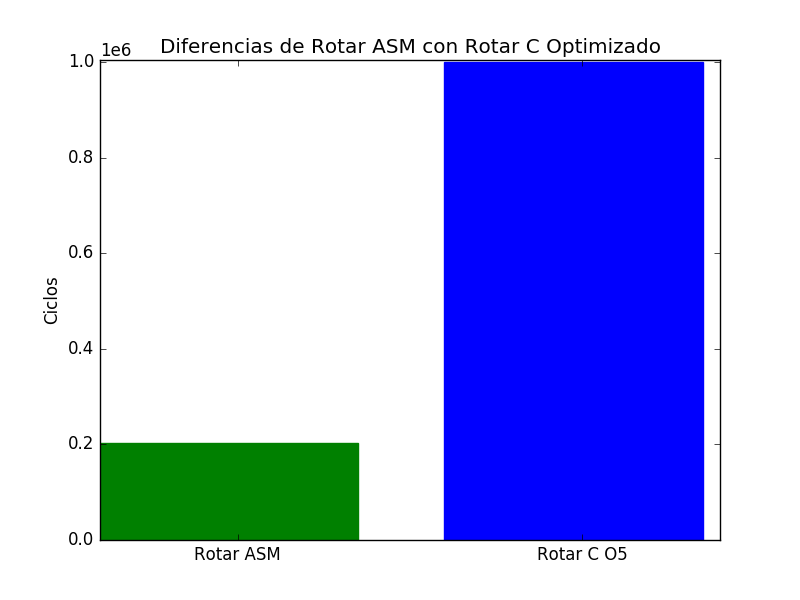
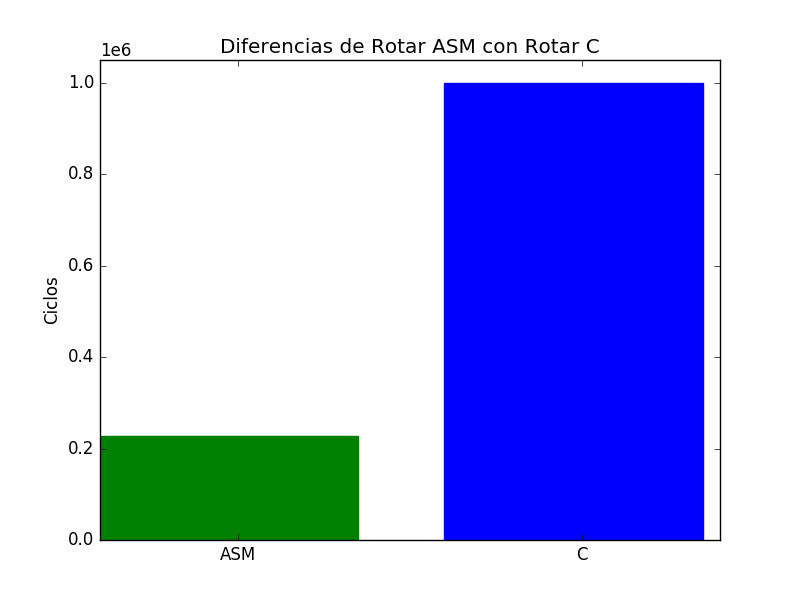
suban experimentos a la carpeta experimentos

diff --git a/Experimentos/ROTAR/ASMvsC.py b/Experimentos/ROTAR/ASMvsC.py
@@ -1,0 +1,64 @@
+import csv
+
+data_csv = "rotar.csv"
+
+ts = [ [] for i in range(128)]
+
+with open(data_csv) as csvfile:
+  reader = csv.DictReader(csvfile)
+  for row in reader:
+    rot = int(row['rotar'])
+    
+    ts[100].append(rot)
+
+data2_csv = "rotarC.csv"
+
+ts2 = [ [] for i in range(128)]
+
+with open(data2_csv) as csvfile:
+  reader = csv.DictReader(csvfile)
+  for row in reader:
+    rot1 = int(row['rotar'])
+    
+    ts2[30].append(rot1)
+
+
+
+import matplotlib.pyplot as plt
+import numpy as np
+
+
+rotar = 1000000
+for i in range(128):
+	for t in ts[i]:
+		rotar = min(rotar, t)
+
+rotar2 = 1000000
+for i in range(128):
+	for t in ts2[i]:
+		rotar2 = min(rotar2, t)
+
+
+y = []
+y.append(rotar)
+y.append(rotar2)
+
+
+ind = np.arange(2) 
+width = .75     
+
+fig, ax = plt.subplots()
+rects1 = ax.bar(ind, y, width)
+
+ax.set_ylabel('Ciclos')
+ax.set_title('Diferencias de Rotar ASM con Rotar C')
+ax.set_xticks(ind + 0.4)
+ax.set_xticklabels(('ASM','C'))
+plt.ticklabel_format(style='sci', axis='y', scilimits=(0,0))
+rects1[0].set_color('g')
+rects1[1].set_color('b')
+
+plt.ylim(0, 1050000)
+
+plt.show()
+

diff --git a/tp2.c b/tp2.c
@@ -108,7 +108,7 @@ void imprimir_tiempos_ejecucion(unsigned long long int start, unsigned long long
 	printf("  # de ciclos insumidos totales     : %llu\n", cant_ciclos);
 	printf("  # de ciclos insumidos por llamada : %.3f\n", (float)cant_ciclos/(float)cant_iteraciones);
 	*total = *total + cant_ciclos;
-	fprintf(pFile,"%.3f\n", (float)cant_ciclos/(float)cant_iteraciones);
+	fprintf(pFile,"%llu\n", cant_ciclos);
 	fclose( pFile );
 }
 
